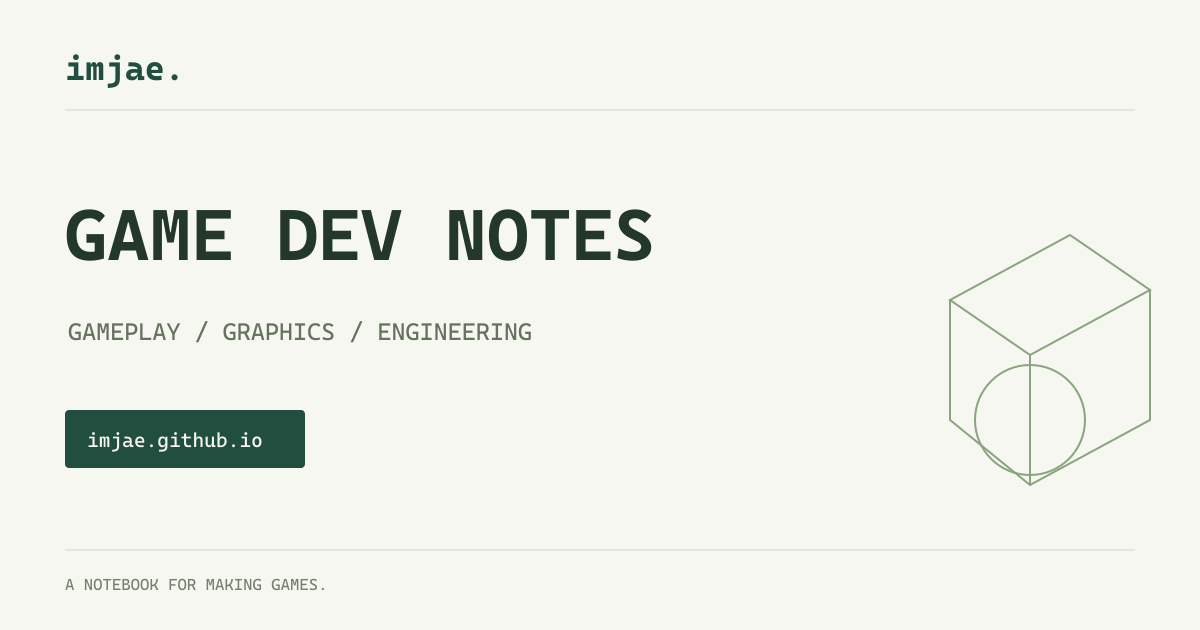
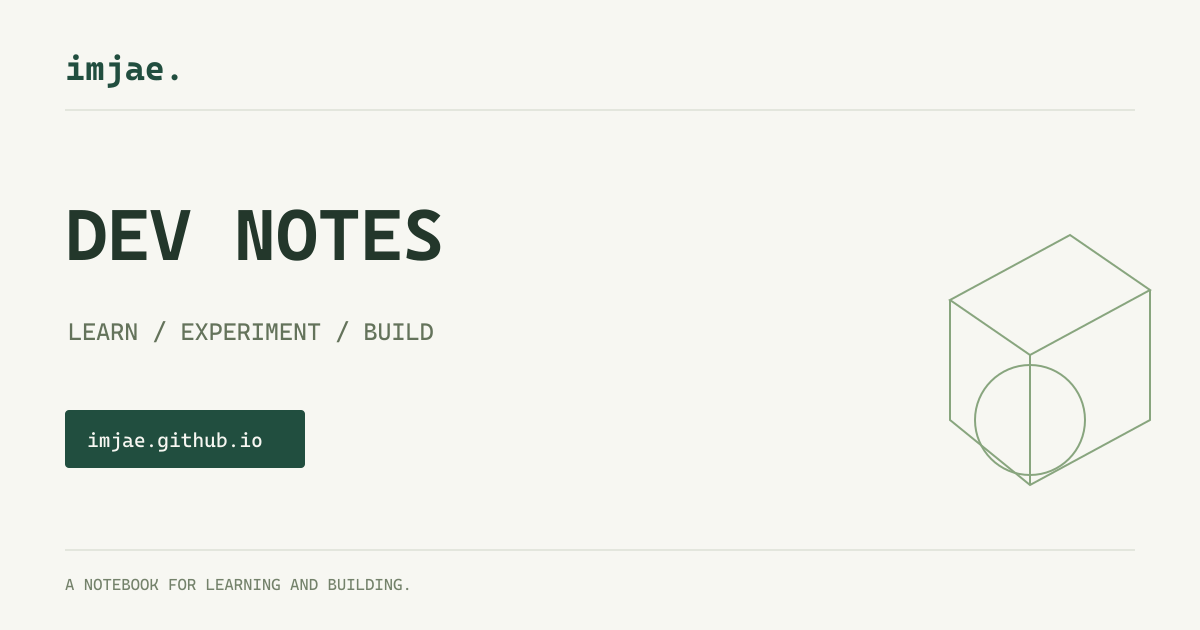
기술 블로그 소개와 개인 Profile 페이지 정리

Changed region(s): [[0.0617, 0.3317, 0.555, 0.4222], [0.0617, 0.5127, 0.4625, 0.5429], [0.1542, 0.9048, 0.3392, 0.9349]]

diff --git a/src/data/site.ts b/src/data/site.ts
@@ -1,13 +1,13 @@
 export const site = {
-  title: 'imjae · Game Dev Notes',
-  description: '게임플레이, 그래픽스, 개발 도구를 만들며 내린 판단과 구현 과정을 기록합니다.',
+  title: 'imjae · Dev Notes',
+  description: '게임 개발을 중심으로 프로그래밍과 컴퓨터 그래픽스를 공부하며, 학습한 개념과 실험, 구현 중 해결한 문제를 기록하는 기술 블로그입니다.',
   url: 'https://imjae.github.io',
   github: 'https://github.com/imjae',
 };
 
 export const topics = [
   { id: 'gameplay', title: '게임플레이', english: 'GAMEPLAY', description: '캐릭터가 움직이고, 전투하고, 상호작용하는 규칙.', number: '01', color: '#286350' },
-  { id: 'graphics', title: '그래픽스', english: 'GRAPHICS', description: '물과 불, 셰이더와 VFX. 표현을 런타임에 연결하기.', number: '02', color: '#416c91' },
+  { id: 'graphics', title: '그래픽스', english: 'GRAPHICS', description: '렌더링, 셰이더와 VFX. 시각 표현의 원리와 구현.', number: '02', color: '#416c91' },
   { id: 'tools', title: '도구와 구조', english: 'TOOLS & SYSTEMS', description: '반복 작업을 줄이고, 데이터를 일관되게 다루는 방법.', number: '03', color: '#92613e' },
   { id: 'ai', title: 'AI 협업', english: 'AI COLLABORATION', description: '요구사항, 구현 후보, 검증과 선택에 관한 기록.', number: '04', color: '#75618b' },
   { id: 'notes', title: '생각과 메모', english: 'FIELD NOTES', description: '개발을 둘러싼 공부와 읽기, 아직 열린 질문들.', number: '05', color: '#716d63' },

diff --git a/src/pages/sitemap.xml.ts b/src/pages/sitemap.xml.ts
@@ -4,6 +4,6 @@ import { site, topics } from '../data/site';
 export const GET: APIRoute = async () => {
   const articles = await getArticles(false);
   const series = [...new Set(articles.map((article) => article.data.series).filter(Boolean))];
-  const routes = ['/', '/writing/', '/portfolio/', '/portfolio/dcb/', '/about/', ...series.map((id) => `/series/${id}/`), ...topics.map((topic) => `/topics/${topic.id}/`), ...articles.map(articleUrl)];
+  const routes = ['/', '/writing/', '/portfolio/', '/portfolio/dcb/', '/profile/', ...series.map((id) => `/series/${id}/`), ...topics.map((topic) => `/topics/${topic.id}/`), ...articles.map(articleUrl)];
   return new Response(`<?xml version="1.0" encoding="UTF-8"?><urlset xmlns="http://www.sitemaps.org/schemas/sitemap/0.9">${routes.map((route) => `<url><loc>${site.url}${route}</loc></url>`).join('')}</urlset>`, { headers: { 'Content-Type': 'application/xml; charset=utf-8' } });
 };

diff --git a/README.md b/README.md
@@ -1,6 +1,6 @@
-# imjae Game Dev Notes
+# imjae Dev Notes
 
-게임플레이·그래픽스·도구·AI 협업 기록을 정리하는 개인 블로그입니다.
+게임 개발을 중심으로 프로그래밍·그래픽스·도구를 공부하며 학습, 실험과 문제 해결 과정을 쌓아가는 기술 블로그입니다.
 
 - 블로그: https://imjae.github.io/
 - 포트폴리오 입구: https://imjae.github.io/portfolio/dcb/
